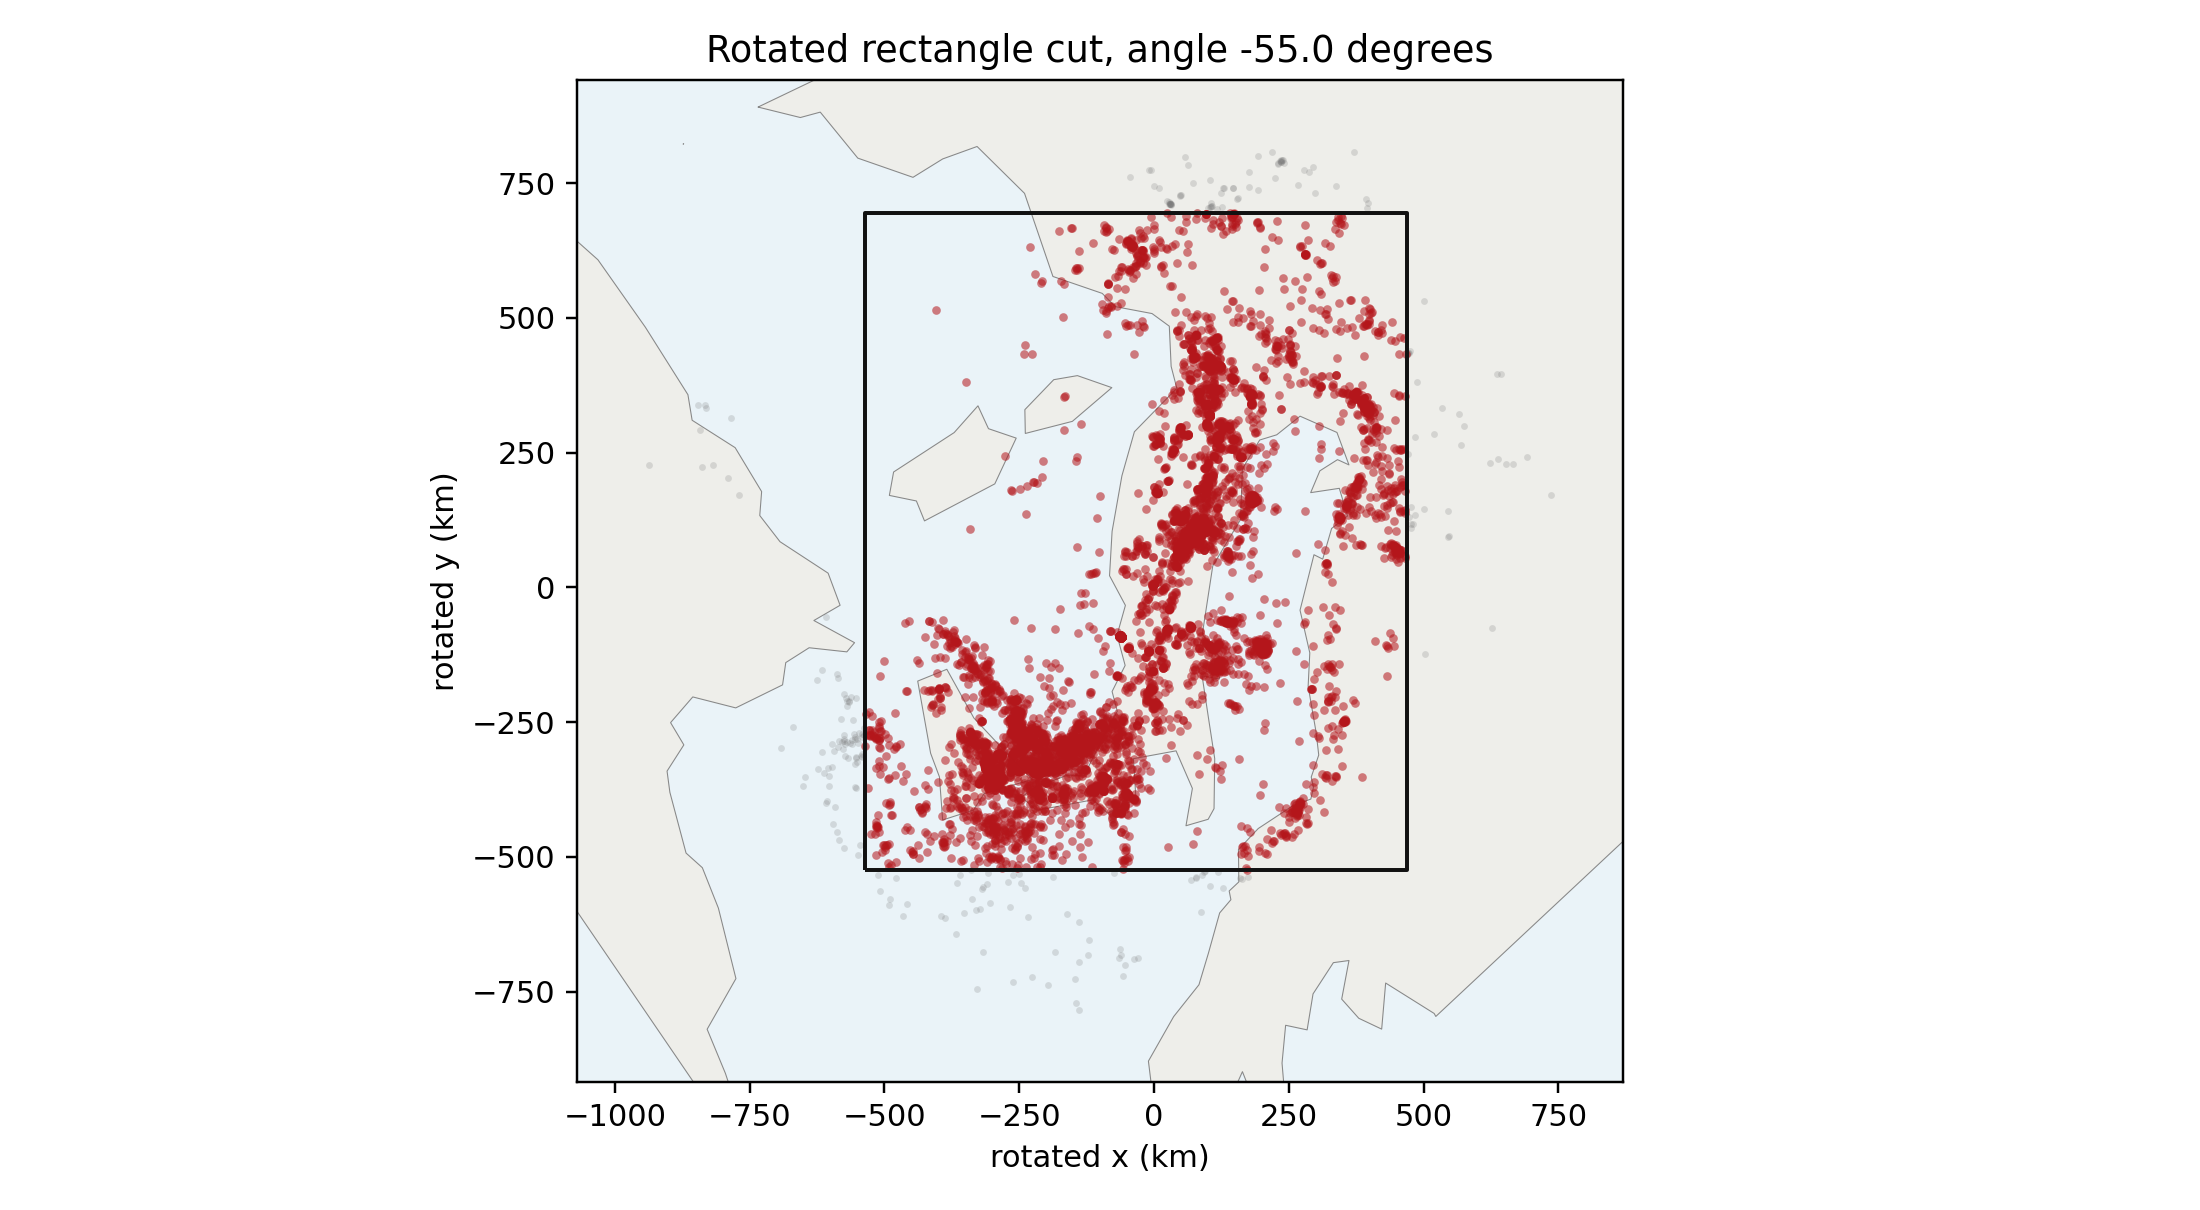
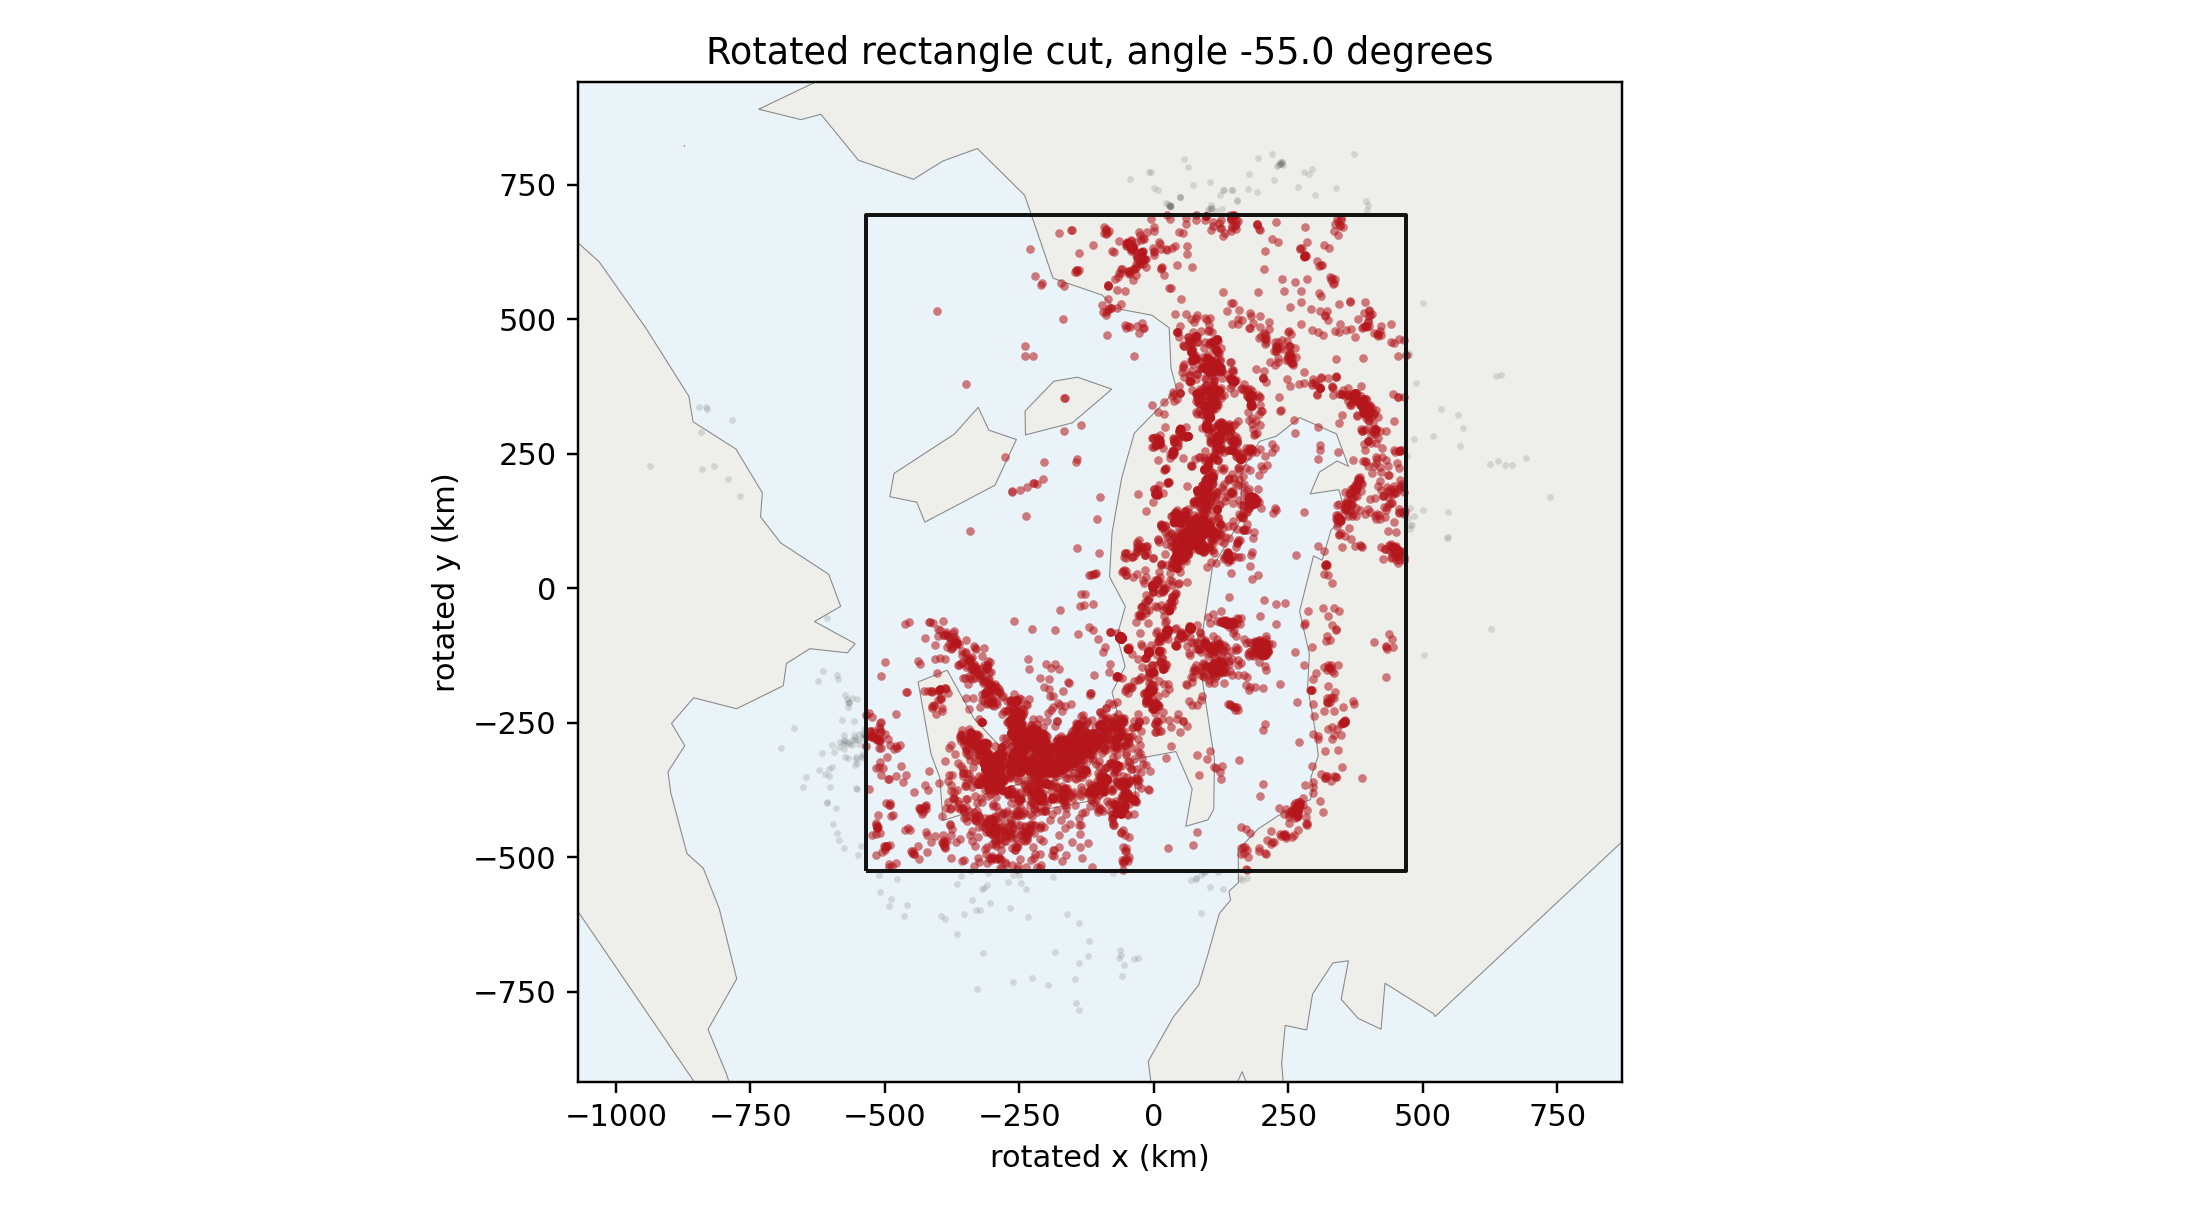
expand gitginore

diff --git a/data/italy_rotated_workflow.py b/data/italy_rotated_workflow.py
@@ -36,7 +36,7 @@ RECT_Y_MAX_KM = None
 
 AUTO_RECTANGLE_QUANTILE_LOW = 0.01
 AUTO_RECTANGLE_QUANTILE_HIGH = 0.99
-AUTO_RECTANGLE_PADDING_KM = 25.0
+AUTO_RECTANGLE_PADDING_KM = 55.0
 
 
 def marker_sizes(gdf: gpd.GeoDataFrame) -> pd.Series: